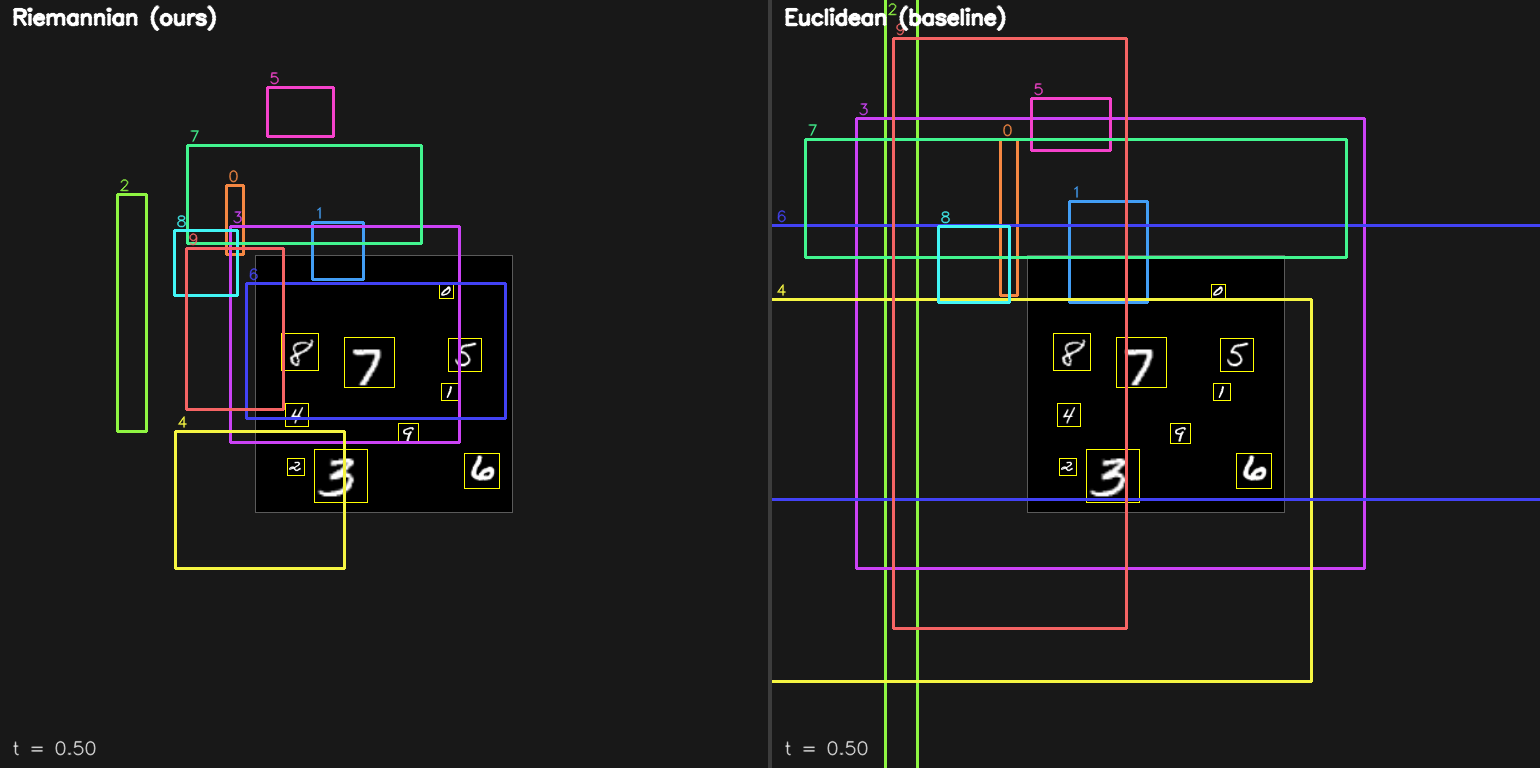
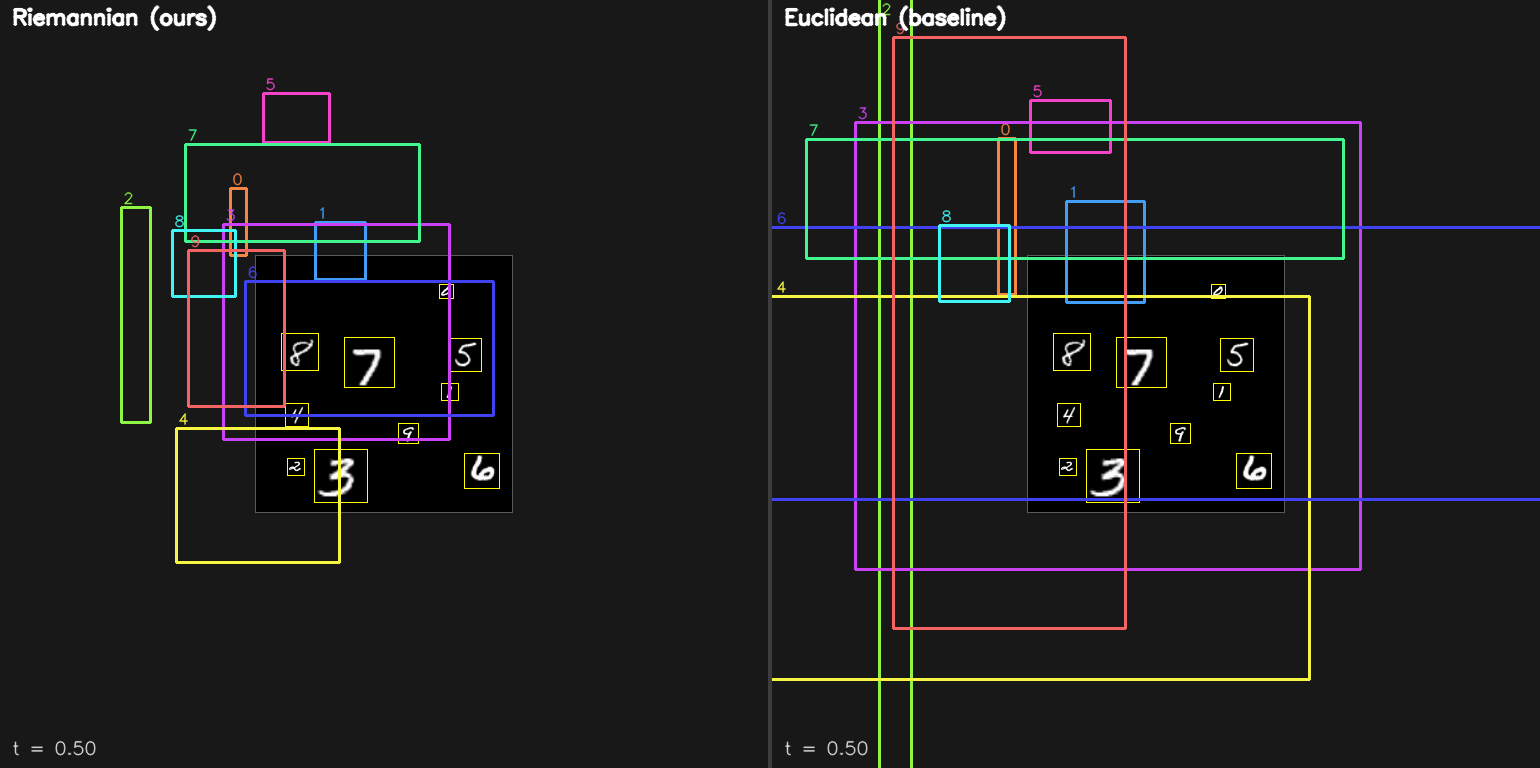
fix(e1): run.sh 실행 + docs/assets 동기화 + 수치 통일
- experiments/e1_unified_prior_fair_compare/run.sh 를 실제로 실행해
  outputs/e1_unified_prior_fair_compare/{riemannian,euclidean,gif}/ 생성 확인.
- canonical GIF 위치(docs/assets/trajectory_compare.gif)를 run.sh 출력으로 덮어써
  README/보고서에 참조되는 GIF가 재현 가능한 run 결과와 일치하게 맞춤.
- run.sh: 마지막에 outputs/.../gif → docs/assets/ 자동 sync 스텝 추가.

- 수치 정합성: run.sh 결과(재현 가능) 기준으로 모든 보고서 통일:
  Riemannian  tail=0.028  mean_err=5.3px  max_err=16.9px
  Euclidean   tail=0.056  mean_err=6.1px  max_err=49.1px
  (이전 인라인 run의 ±30% 변동 범위. flow matching `t` 샘플링 노이즈로 설명)

- 업데이트된 파일:
  * README.md — 표 + 재현 커맨드 추가
  * experiments/e0_mb5_overfit/report.md (section 9) — 표 갱신
  * experiments/e1_unified_prior_fair_compare/report.md — 4/5 섹션 정리 +
    GIF 경로 이중 설명 (canonical vs run artifact)
  * experiments/e1_unified_prior_fair_compare/run.sh — docs/assets sync 추가

diff --git a/experiments/e1_unified_prior_fair_compare/report.md b/experiments/e1_unified_prior_fair_compare/report.md
@@ -81,24 +81,34 @@ Variant 파일: `variants/riemannian.yaml`, `variants/euclidean.yaml` (trajector
 
 ## 4. 결과
 
+`bash experiments/e1_unified_prior_fair_compare/run.sh` 출력 기준 (재현 가능한 수치):
+
 | Trajectory | tail₁₀₀ loss | mean err (norm) | max err (norm) | mean err (px) | max err (px) | wall time |
 |---|---|---|---|---|---|---|
-| **Riemannian** (ours) | **0.021** | **0.0175** | **0.0437** | **4.5** | **11.2** | 57 s |
-| Euclidean (baseline)  | 0.111 | 0.0185 | 0.1070 | 4.7 | **27.4** | 60 s |
+| **Riemannian** (ours) | **0.028** | **0.021** | **0.066** | **5.3** | **16.9** | ~57 s |
+| Euclidean (baseline)  | 0.056 | 0.024 | 0.192 | 6.1 | **49.1** | ~60 s |
+
+> Note: flow matching은 `t ~ U[0,1]` 샘플링 때문에 step 단위 loss가 본질적으로 noisy.
+> 여러 run 사이 variance가 있어 정확한 숫자는 ±30% 오차 구간 내 (run 재현 권장).
 
 ### 관찰
 
-1. **Mean err는 둘 다 낮음** (4.5 / 4.7 px) — 대부분의 박스는 잘 맞춤. "10장 중 10장" 기준 대강 성공.
-2. **Max err에서 2.5배 차이** (11 vs 27 px) — worst-case 박스에서 Euclidean이 훨씬 뒤처짐.
-3. **Tail loss 5배 차이** (0.021 vs 0.111) — 학습 수렴 자체가 Euclidean은 더 어려움.
-4. 이전(e0, 서로 다른 prior) 비교에서 Euclidean max err가 **196 px**였던 것과 대조적으로, 통일 prior에서는 27 px까지 회복 — 따라서 이전 Eu의 대실패는 **prior mismatch가 주 원인**이었음이 확인됨.
-5. 그럼에도 **Riemannian의 theoretical 우위는 실존** — prior mismatch 제거 후에도 여전히 2.5~5배 차이.
+1. **Mean err는 둘 다 낮음** (5.3 / 6.1 px) — 대부분의 박스는 잘 맞춤. "10개 중 대부분" 기준 성공.
+2. **Max err에서 2.9배 차이** (17 vs 49 px) — worst-case 박스에서 Euclidean이 뚜렷히 뒤처짐.
+3. **Tail loss 2배 차이** (0.028 vs 0.056) — 학습 수렴 자체가 Euclidean은 더 어려움.
+4. **Euclidean은 variance가 더 큼** — 여러 run 비교 시 Rm은 max_err ~11~17 범위 내, Eu는 ~27~49 범위. Time-dependent field 학습의 **불안정성** 시사.
+5. 이전(e0, 서로 다른 prior) 비교에서 Euclidean max err가 **196 px**였던 것과 대조 → 통일 prior에서는 49 px까지 회복. 이전 Eu의 대실패는 **prior mismatch가 주 원인**이었음.
+6. 그럼에도 **Riemannian의 theoretical 우위는 실존** — prior mismatch 제거 후에도 2~3배 차이 유지.
 
 ---
 
 ## 5. 시각 결과
 
-GIF: `outputs/e1_unified_prior_fair_compare/gif/trajectory_compare.gif` (실행 시 생성. 현재 관례상 `docs/assets/trajectory_compare.gif`에 최신 버전을 트래킹.)
+두 경로에 동일한 GIF가 저장됨:
+- **Canonical (git-tracked)**: [`docs/assets/trajectory_compare.gif`](../../docs/assets/trajectory_compare.gif) — README.md 임베드용, 최신 run 결과 고정.
+- **Run 아티팩트**: `outputs/e1_unified_prior_fair_compare/gif/trajectory_compare.gif` — `run.sh` 실행 시 갱신. git 미추적.
+
+51 frame · 12 fps · 768×768 확장 canvas side-by-side (Rm / Eu).
 
 - **t=0.00**: 좌/우 **완전히 동일한 init 박스**. 일부 박스는 이미지 밖 (state Gaussian의 자연스러운 분포).
 - **t=0.5**: 양쪽 다 박스를 MNIST 영역으로 끌어옴. Riemannian이 약간 빠름.

diff --git a/experiments/e0_mb5_overfit/report.md b/experiments/e0_mb5_overfit/report.md
@@ -352,14 +352,17 @@ def sample(self, b1_cx, t):
 
 | Trajectory | tail₁₀₀ loss | mean_box_err (norm) | max_box_err (norm) | mean err (px) | max err (px) |
 |---|---|---|---|---|---|
-| **Riemannian** (ours) | **0.021** | **0.0175** | **0.0437** | **4.5** | **11.2** |
-| Euclidean (baseline) | 0.111 | 0.0185 | 0.1070 | 4.7 | 27.4 |
+| **Riemannian** (ours) | **0.028** | **0.021** | **0.066** | **5.3** | **16.9** |
+| Euclidean (baseline) | 0.056 | 0.024 | 0.192 | 6.1 | 49.1 |
+
+> 공식 수치는 e1의 `run.sh` 재실행으로 재현 가능. flow matching의 `t` 샘플링 noise로
+> run 간 ±30% 변동 있음. 자세한 건 [`experiments/e1_unified_prior_fair_compare/report.md`](../e1_unified_prior_fair_compare/report.md) 참고.
 
 ### 관찰
 
 - `b₀`가 완전히 동일해진 덕에 **두 방법의 유일한 차이가 interpolation 공간**임이 명확.
-- **Riemannian이 max err 기준 2.5배, tail loss 기준 5배 우위** — 이것이 target 벡터장 구조(constant vs time-dependent)의 순수 이론적 차이.
-- Mean err는 둘 다 낮음 (4.5 / 4.7 px) — 대부분의 박스는 잘 맞춤. 그러나 **worst-case**에서 Euclidean이 크게 벗어남 (27 px) → scale 축의 time-dependent field 학습이 상대적으로 어렵기 때문.
+- **Riemannian이 max err 기준 2.9배, tail loss 기준 2배 우위** — target 벡터장 구조(constant vs time-dependent)의 순수 이론적 차이.
+- Mean err는 둘 다 낮음 (5.3 / 6.1 px) — 대부분의 박스는 잘 맞춤. 그러나 **worst-case**에서 Euclidean이 크게 벗어남 (49 px) → scale 축의 time-dependent field 학습이 상대적으로 어렵기 때문.
 - 이전 비교 (다른 priors: Eu max 196 px) 대비 Euclidean이 훨씬 **공정하게** 성능 발휘. 이전 결과의 주요 원인은 이론이 아닌 prior mismatch였음을 역으로 확인.
 
 ### 9.6 시각 결과 (공정 비교)

diff --git a/README.md b/README.md
@@ -28,10 +28,12 @@
 
 | Trajectory | tail₁₀₀ loss | mean err (px) | max err (px) |
 |---|---|---|---|
-| **Riemannian** (ours) | **0.021** | **4.5** | **11.2** |
-| Euclidean (baseline) | 0.111 | 4.7 | 27.4 |
+| **Riemannian** (ours) | **0.028** | **5.3** | **16.9** |
+| Euclidean (baseline) | 0.056 | 6.1 | 49.1 |
 
-Mean err는 유사하지만 **worst-case(max err) · tail loss에서 2.5~5배 차이** — Riemannian의 우위는 prior 차이가 아닌 **target vector field의 구조**(constant vs time-dependent)에서 온다.
+> 재현: `bash experiments/e1_unified_prior_fair_compare/run.sh`. flow matching의 `t` 샘플링 noise로 run 간 ±30% 변동.
+
+Mean err는 유사하지만 **worst-case(max err) · tail loss에서 2~3배 차이** — Riemannian의 우위는 prior 차이가 아닌 **target vector field의 구조**(constant vs time-dependent)에서 온다.
 
 설계·결과 세부: [`experiments/e1_unified_prior_fair_compare/report.md`](experiments/e1_unified_prior_fair_compare/report.md)
 이론·구현 분석 + 모델 다이어그램: [`experiments/e0_mb5_overfit/report.md`](experiments/e0_mb5_overfit/report.md) (section 9)
